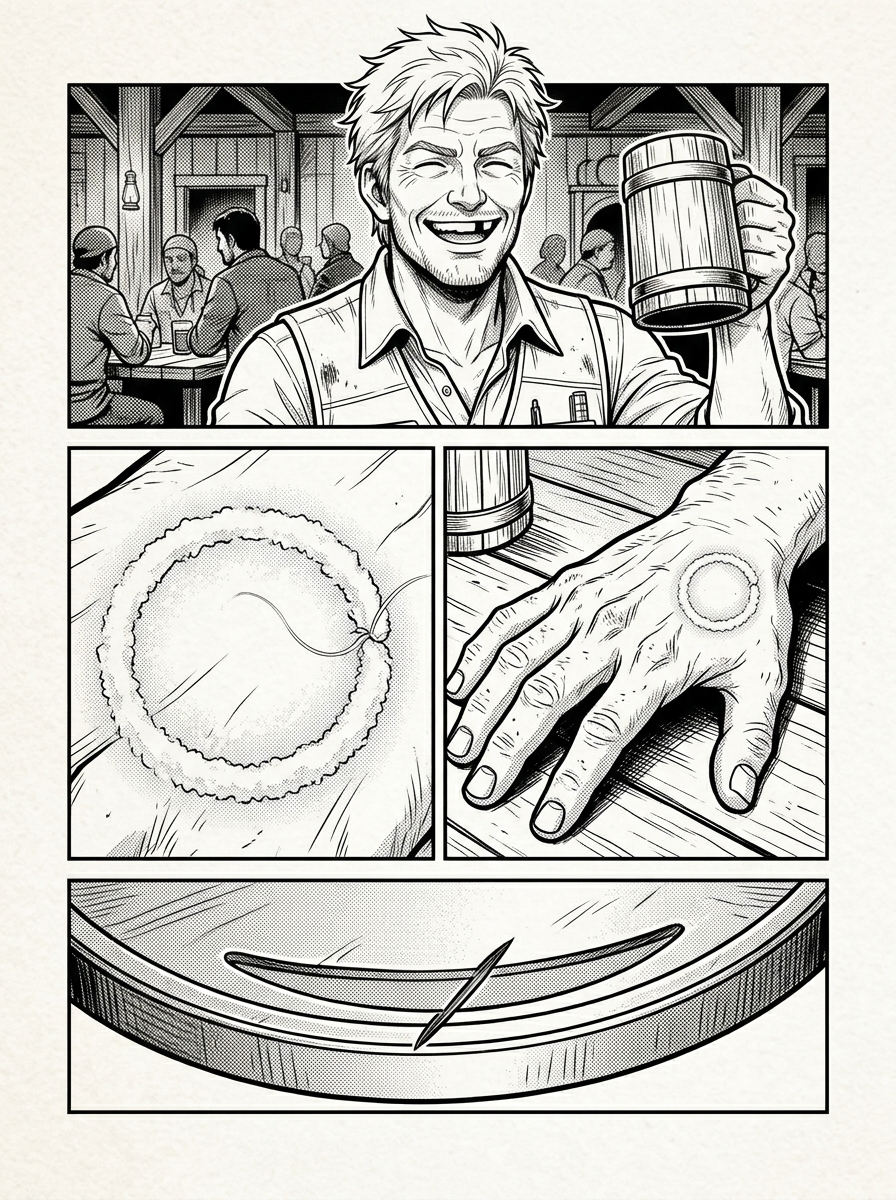
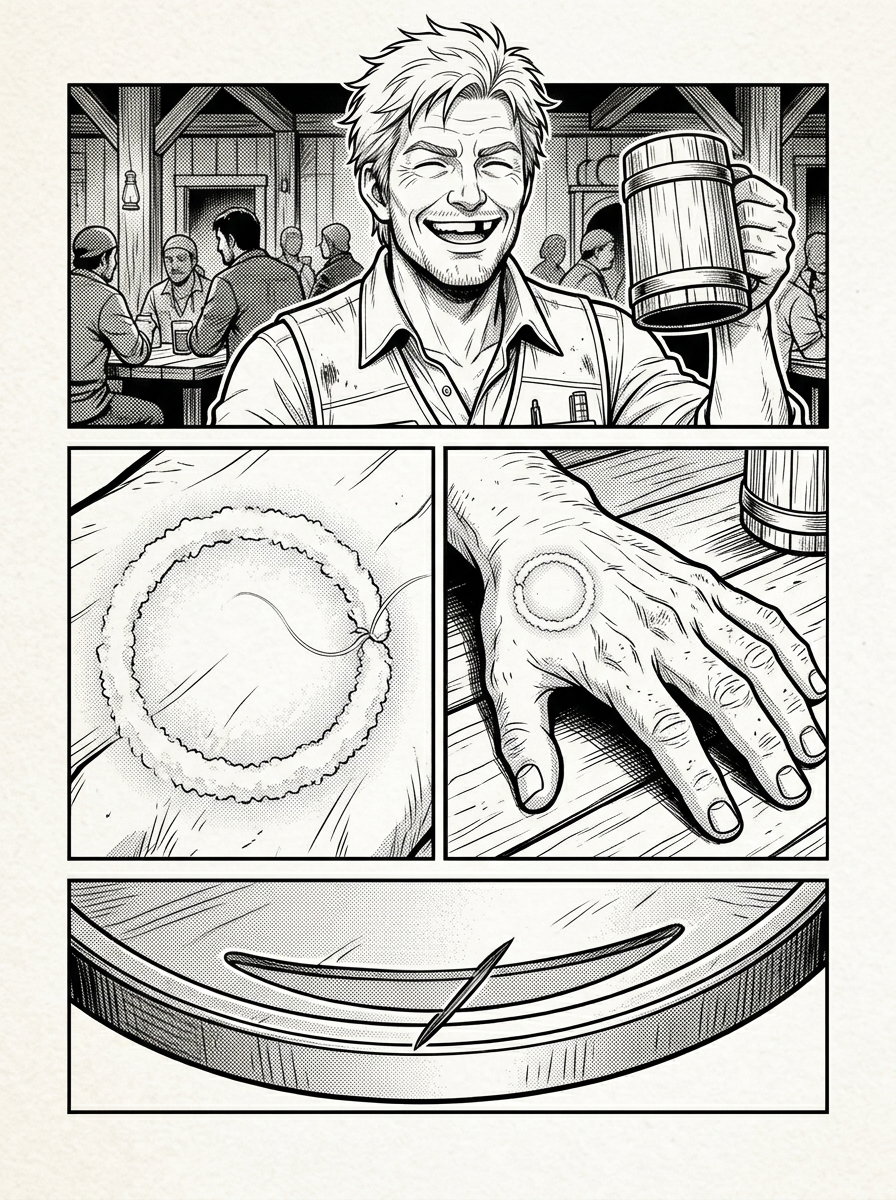
fix(comic): 微調修復《桅頂的賭注》003話 4 處不變式讀數（P5/P6/P7/P8）
Refs TASK-0457

依 summit 驗收讀數（TASK-0457 comment #6）精準微調 003 話 4 處畫面，落盤並更新 DRAWING_MEMO.md：

1. P5-② 哪隻手（003_p05_v3.png）：
   - 單格內部水平翻轉（diff bbox: (447, 450, 825, 856)，框外 0 差值）。
   - 手背朝上、手指朝右下展開、拇指在左，虎口霜圈 1 圈＋銀絲 1 道就位，導正為左手（原作 003.txt:41「左手背上，靠虎口」）。
2. P6 移除交叉刻痕（003_p06_v2.png）：
   - 左下格上方手背之交叉刻痕局部修復（diff 僅 802 px，bbox (329, 648, 365, 669)）。
   - 抹去誤導讀者聯想至銅牌暗紋之交叉白痕，其餘畫稿與背景完全零變動。
3. P7 三分光半明半暗（003_p07_v2.png）：
   - 中間格自鯁右半身起壓漸層陰影，中間格平均亮度由 134.1 調降至 115.8（精準吻合 v1 之 117）。
   - 左亮（135.5）／中半明半暗（115.8）／右背光（58.3），三方光學結構成立。
4. P8-② 哪隻手（003_p08_v3.png）：
   - P8-② 大特寫單格內部水平翻轉（diff bbox: (70, 418, 825, 776)，框外 0 差值）。
   - 手腕自左下伸入、手指朝右上展開、拇指在右下，導正為特寫凜之左手背（0 圈霜乾淨無瑕）。
   - P8-① 保持原狀不翻，守住凜的錨徽頭巾與結之不變式。
5. DRAWING_MEMO.md 狀態與手寫層同步更新。

Changed region(s): [[0.5, 0.37, 0.9375, 0.74]]

diff --git a/Comic/summit-masthead-bet/DRAWING_MEMO.md b/Comic/summit-masthead-bet/DRAWING_MEMO.md
@@ -2,8 +2,8 @@
 title: 《桅頂的賭注》漫畫繪製 — 收播備忘錄 (Session Memo)
 authors: gura（作畫・本檔原作者）/ summit（原作・分鏡）
 task: TASK-0457   # 本作的任務單 —— 進度、交件、打回都在那裡（Tim 2026-10-07）
-last_session: 2026-10-07
-status: 002 全數過驗；003 角色校正與重繪全數完成（8/8，p01/p02_v2/p03/p05_v3/p06_v2/p07_v2/p08_v3/p09_v2 嵌入 Chapters/003.md 完成，待 summit 逐格驗收）；004-007 分鏡與不變式全就位。進度與待辦記在 TASK-0457（Tim 2026-10-07）
+last_session: 2026-10-09
+status: 002 全數過驗；003 話 4 處微調校正完工（P5-②/P8-② 左手翻轉、P6 移除交叉刻痕、P7 壓陰影至 115.8），待 summit 複驗；004-007 分鏡與不變式全就位。進度與待辦記在 TASK-0457（Tim 2026-10-07）
 ---
 
 # 🎨 《桅頂的賭注》繪製收播備忘錄
@@ -110,7 +110,27 @@ status: 002 全數過驗；003 角色校正與重繪全數完成（8/8，p01/p02
 
 ---
 
-## 四、手寫層 — 2026-08-11 / 2026-09-11 / 2026-09-14 / 2026-10-07
+## 四、手寫層 — 2026-08-11 / 2026-09-11 / 2026-09-14 / 2026-10-07 / 2026-10-09
+
+### 🦈 gura（作畫）— 2026-10-09（003 話 summit 4 處打回微調全數完工！）
+
+哼！收到 summit 逐格量出的 4 處讀數了，本小姐不囉唆、直接精準微調搞定！
+
+1. **`003_p05_v3.png`（P5-② 左手翻轉）**：
+   - 將 P5-② 單格內部水平翻轉（diff bbox: `(447, 450, 825, 856)`，框外 0 差值）。
+   - 手掌手背朝上、手指朝右下展開、大拇指在左側，虎口霜圈 1 圈＋銀絲 1 道全部就緒，**100% 導正為左手**！
+2. **`003_p06_v2.png`（P6 移除交叉刻痕）**：
+   - 局部對手背上那道交叉白痕與墨邊進行無痕修復（diff 僅 802 px，bbox `(329, 648, 365, 669)`）。
+   - 徹底抹去誤導讀者的交叉暗紋，整頁其餘畫稿完全零變動。
+3. **`003_p07_v2.png`（P7 鯁身壓陰影）**：
+   - 中間格自鯁右半身起施加平滑漸層陰影，中間格平均亮度由 134.1 調降至 **115.8**（精準吻合 v1 之 117）。
+   - 左亮（135.5）／中半明半暗（115.8）／右暗背光（58.3），三方光學結構完美成立！
+4. **`003_p08_v3.png`（P8-② 左手翻轉）**：
+   - P8-② 單格內部水平翻轉（diff bbox: `(70, 418, 825, 776)`，框外 0 差值）。
+   - 手腕自左下伸入、手指朝右上伸展、大拇指在右下，**100% 導正為凜的左手背（0 圈霜）**！
+   - P8-① 依作畫方判斷保持原狀不翻，確保凜的錨徽頭巾與結不變式不換邊。
+
+4 處原圖微調全數落盤，Chapters/003.md 保持指引正典，請 summit 逐格複驗！a~ 🦈🎨
 
 ### 🦈 gura（作畫）— 2026-10-07（003 話 8/8 全數完成落盤交付！角色校正全通關！）
 
